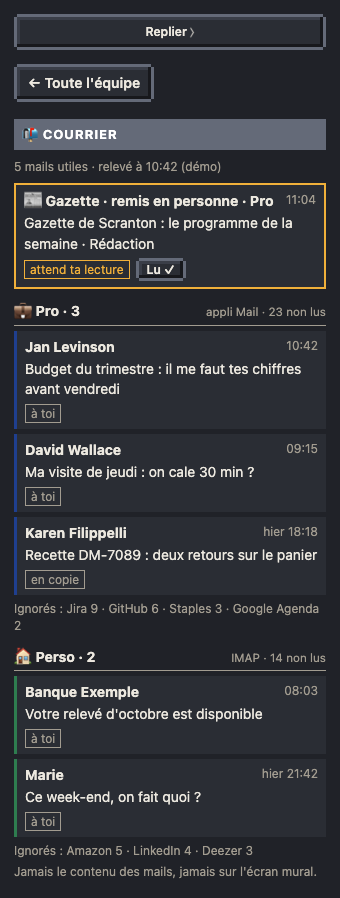
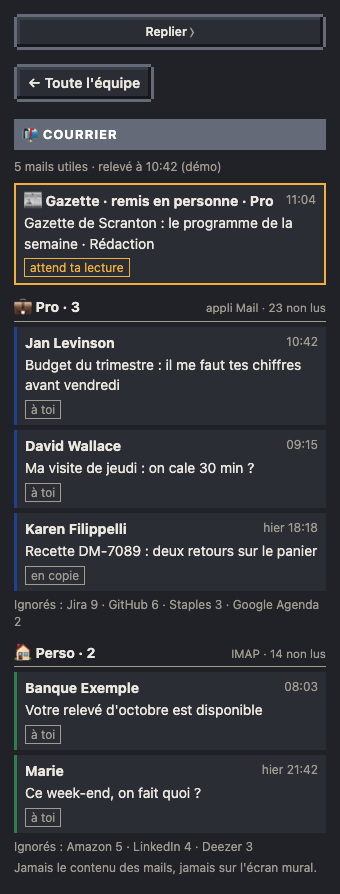
refactor(courrier): plus de « Lu ✓ », le porteur attend la lecture dans la messagerie
Choix après l'essai réel : marquer lu un seul type de mail depuis la
page, et pas les autres, était bizarre. Le porteur vient au bureau du
boss et y reste tant que le mail n'est pas lu dans la messagerie ; il
repart au relevé suivant (10 min au plus). Retirés : le bouton, le
workflow « Le Bureau · lu » (actions.mail_read), le bloc
bureau-mailread, le mode read de mail_snapshot.py et read_rows. La
carte « remis en personne » reste (fiche Courrier, porteur, boss),
avec « Ouvrir ↗ ». 15 workflows (7 crons, 8 manuels), 13 blocs. #30

diff --git a/page/src/48-mail.js b/page/src/48-mail.js
@@ -91,7 +91,7 @@ function postmanState(c,t){
 // ---------- porteurs (mail.messengers) : un invité remet en personne les mails d'une règle, jusqu'à leur lecture ----------
 // Le cron sort ces mails du tri (carried, hors du compteur). L'invité de la règle (carrier = sa clé) vient devant le bureau
 // du boss à leur arrivée (ou au créneau de la règle : {received: 'fri', deliver: 'mon 09:00'}) et y reste tant qu'ils
-// ne sont pas lus (ils disparaissent du dataset au relevé suivant, ou tout de suite avec « Lu ✓ »).
+// ne sont pas lus dans la messagerie (ils disparaissent du dataset au relevé suivant, et l'invité repart).
 const WD=['Sun','Mon','Tue','Wed','Thu','Fri','Sat'];
 function carryStart(m){
   const t=ms(m.at); if(!t)return 0;
@@ -125,12 +125,11 @@ function mailRow(m,a){
 }
 // mails remis en personne (avec leur compte) déjà arrivés à t, d'un porteur (clé) ou de tous
 function carriedMails(t,carrier){return mailAccounts().filter(a=>a.ok).flatMap(a=>(a.carried||[]).map(m=>({...m,acc:a}))).filter(m=>(!carrier||m.carrier===carrier)&&carryStart(m)<=t);}
-// carte d'un mail remis en personne, avec « Lu ✓ » (workflow « lu ») : fiche Courrier, fiche du porteur et fiche du boss
+// carte d'un mail remis en personne : fiche Courrier, fiche du porteur et fiche du boss ; il se lit dans la messagerie (« Ouvrir ↗ »)
 function handHtml(m){
   const href=safeMailUrl(m.open);
   return `<div class="ml-hand" style="--c:${esc(m.acc.color||'var(--accent)')}"><div class="ml-top"><b>${esc(m.bubble)} · remis en personne · ${esc(m.acc.label)}</b><span class="ml-t">${esc(mailWhen(m.at))}</span></div>`+
-    `<div class="ml-s">${esc(m.subject||'(sans objet)')}${m.name?' · '+esc(m.name):''}</div><div class="ml-tags" data-kronn-action-slot-host><span class="ml-tag ml-wait">attend ta lecture</span>`+
-    (ACTIONS.mail_read?`<button class="ml-read" data-kronn-action="bureau-mailread" data-kronn-bindings='${esc(JSON.stringify({id:m.acc.id+'|'+m.id}))}'>Lu ✓</button>`:'')+
+    `<div class="ml-s">${esc(m.subject||'(sans objet)')}${m.name?' · '+esc(m.name):''}</div><div class="ml-tags"><span class="ml-tag ml-wait">attend ta lecture</span>`+
     (href?`<a class="ml-open" href="${esc(href)}" target="_blank" rel="noopener">Ouvrir ↗</a>`:'')+`</div></div>`;
 }
 function handCards(side,list){
@@ -146,7 +145,7 @@ function renderMail(side,first){
   if(!acc.length){box.innerHTML='<p class="sub">Pas de compte : le courrier se branche à l\'installation.</p>';side.appendChild(box);return;}
   const n=acc.reduce((s,a)=>s+(a.ok?a.useful_n||0:0),0);
   let html=`<p class="sub">${MAILS.sorted?plural(n,'mail utile','mails utiles'):'Pas encore trié : le facteur viendra proposer tes règles'} · relevé à ${hm(ms(MAILS.generated_at))}${MAILS.demo?' (démo)':''}</p>`;
-  html+=carriedMails(Infinity).map(handHtml).join(''); // remis en personne : en tête, avec « Lu ✓ »
+  html+=carriedMails(Infinity).map(handHtml).join(''); // remis en personne : en tête
   for(const a of acc){
     html+=`<section class="ml-acc" style="--c:${esc(a.color||'var(--accent)')}"><div class="ml-head"><b>${MAIL_ICON[a.provider]||'📬'} ${esc(a.label)}${a.ok?' · '+(MAILS.sorted?a.useful_n:'?'):''}</b>`+
       `<small>${a.provider==='imap'?'IMAP':'appli Mail'} · ${a.unread||0} non lus</small></div>`;

diff --git a/tests/mail.test.js b/tests/mail.test.js
@@ -133,24 +133,19 @@ test('porteur : reçu le vendredi, remis le lundi au créneau de la règle', () 
   assert.equal(J(`new Date(carryStart(MAILS.accounts[0].carried[0])).toISOString()`), '2026-10-05T07:00:00.000Z');
 });
 
-test('fiche : la carte « Remis en personne » en tête, avec « Lu ✓ » lié au mail', () => {
-  run(`ACTIONS.mail_read = true; MAILS = {generated_at: '${at('11:00')}', sorted: true, accounts: [{id: 'pro', label: 'Pro', ok: true, unread: 1, useful_n: 0, useful: [], ignored: [], carried: [${JSON.stringify(carried('11:05'))}]}]};`);
+test('fiche : la carte « Remis en personne » en tête, à lire dans la messagerie (pas de bouton pour la marquer lue)', () => {
+  run(`MAILS = {generated_at: '${at('11:00')}', sorted: true, accounts: [{id: 'pro', label: 'Pro', ok: true, unread: 1, useful_n: 0, useful: [], ignored: [], carried: [${JSON.stringify(carried('11:05'))}]}]};`);
   const h = fiche('pro');
   assert.match(h, /📰 Gazette · remis en personne · Pro/);
-  assert.match(h, /data-kronn-action="bureau-mailread"/);
-  assert.match(h, /&quot;id&quot;:&quot;pro\|y1&quot;/);
-  run(`ACTIONS.mail_read = false;`);
+  assert.match(h, /attend ta lecture/);
+  assert.doesNotMatch(h, /data-kronn-action/);
 });
 
-test('porteur : ses mails, avec « Lu ✓ », dans sa fiche et dans celle du boss (qui les compte en validations)', () => {
-  run(`ACTIONS.mail_read = true; MAILS = {generated_at: '${at('11:00')}', sorted: true, accounts: [{id: 'pro', label: 'Pro', ok: true, unread: 1, useful_n: 0, useful: [], ignored: [], carried: [${JSON.stringify(carried('11:05'))}]}]};
+test('porteur : ses mails dans sa fiche et dans celle du boss (qui les compte en validations)', () => {
+  run(`MAILS = {generated_at: '${at('11:00')}', sorted: true, accounts: [{id: 'pro', label: 'Pro', ok: true, unread: 1, useful_n: 0, useful: [], ignored: [], carried: [${JSON.stringify(carried('11:05'))}]}]};
     T = Date.parse('${at('11:10')}'); for (const c of chars) c._st = stateAt(c, T);`);
   const draw = k => run(`(() => { const s = {kids: [], appendChild(x) { this.kids.push(x); }, querySelector() { return null; }, querySelectorAll() { return []; }};
     sel = '${k}'; drawSide(s); return s.kids.map(k => k.innerHTML || '').join('\\n'); })()`);
-  for (const k of ['g_david', run('chars.find(c => c.boss).key')]) {
-    const h = draw(k);
-    assert.match(h, /📰 Gazette · remis en personne · Pro/, k);
-    assert.match(h, /data-kronn-action="bureau-mailread"/, k);
-  }
-  run(`ACTIONS.mail_read = false; sel = null;`);
+  for (const k of ['g_david', run('chars.find(c => c.boss).key')]) assert.match(draw(k), /📰 Gazette · remis en personne · Pro/, k);
+  run(`sel = null;`);
 });

diff --git a/page/src/50-panel.js b/page/src/50-panel.js
@@ -205,7 +205,7 @@ function drawSide(side){
   if(c.boss){const p=document.createElement('p');p.style.color='var(--muted)';const gates=chars.filter(x=>x._st&&x._st.st==='gate'), lone=loneGates();
     const qs=QUESTIONS.filter(q=>(ms(q.since)||0)<=T);
     if(!gates.length&&!lone.length&&!qs.length){p.textContent="Personne n'attend ta validation. Le bureau tourne tout seul.";side.appendChild(p);}
-    for(const x of gates){const r=x._st&&x._st.run;if(r)gateCard(side,r,x.name);else handCards(side,carriedFor(x,T));} // porteurs : leurs mails, avec « Lu ✓ » (48-mail.js)
+    for(const x of gates){const r=x._st&&x._st.run;if(r)gateCard(side,r,x.name);else handCards(side,carriedFor(x,T));} // porteurs : les mails qu'ils remettent (48-mail.js)
     for(const g of lone)gateCard(side,{run:g.run,wf_name:g.wf_name,_s:ms(g.since)},null); // workflows sans personnage (« Le Bureau · plan »)
     for(const q of qs)questionCard(side,q,askerOf(q)); // questions des discussions (visiteurs, canard, « interroger »)
     const imp=chars.filter(x=>x.visitor&&x.disc&&x.disc.imp>0);
@@ -221,7 +221,7 @@ function drawSide(side){
       }
       box.appendChild(ul);}}
   if(st.st==='gate'&&st.run)gateCard(side,st.run,null);
-  else if(st.st==='gate'&&c.guest)handCards(side,carriedFor(c,T)); // porteur : les mails qu'il remet, avec « Lu ✓ »
+  else if(st.st==='gate'&&c.guest)handCards(side,carriedFor(c,T)); // porteur : les mails qu'il remet
   if(c.visitor&&c.disc)for(const q of discQuestions(c.disc.id,T))questionCard(side,q,null);
   musicCard(side,c);
   passionCards(side,c); // 38-passions.js : Smash, dramas, GitFut

diff --git a/page/office_template.html b/page/office_template.html
@@ -102,7 +102,6 @@
 <script type="application/kronn-action" data-action-id="bureau-estimate">{"kind":"workflow","target_id":"__ESTIMATE_WF__","values":[{"name":"jira_ticket_key","provenance":"dynamic_binding","source_ref":"<page.dataset.actions.tickets.find(key).key>"},{"name":"story_points","provenance":"user_input"},{"name":"raison","provenance":"user_input"}]}</script>
 <script type="application/kronn-action" data-action-id="bureau-duck">{"kind":"workflow","target_id":"__DUCK_WF__","values":[{"name":"project_id","provenance":"dynamic_binding","source_ref":"<page.dataset.gates.projects.find(id).id>"},{"name":"title","provenance":"user_input"},{"name":"topic","provenance":"user_input"}]}</script>
 <script type="application/kronn-action" data-action-id="bureau-mailrules">{"kind":"workflow","target_id":"__MAILRULES_WF__","values":[]}</script>
-<script type="application/kronn-action" data-action-id="bureau-mailread">{"kind":"workflow","target_id":"__MAILREAD_WF__","values":[{"name":"mail_ref","provenance":"dynamic_binding","source_ref":"<page.dataset.mails.read_rows.find(id).id>"}]}</script>
 <script type="application/kronn-action" data-action-id="bureau-avatar">{"kind":"workflow","target_id":"__AVATAR_WF__","values":[{"name":"avatar_code","provenance":"user_input"}]}</script>
 
 <script>

diff --git a/tests/boot.test.js b/tests/boot.test.js
@@ -25,10 +25,10 @@ test('les données Kronn (window.KronnPageData) remplacent la démo', () => {
   assert.equal(run('LIVE_DATA'), true);
 });
 
-test('squelette : 14 blocs kronn-action et les marqueurs CSS / JS', () => {
+test('squelette : 13 blocs kronn-action et les marqueurs CSS / JS', () => {
   const html = fs.readFileSync(path.join(__dirname, '..', 'page', 'office_template.html'), 'utf8');
   const ids = [...html.matchAll(/<script type="application\/kronn-action" data-action-id="([^"]+)">/g)].map(m => m[1]);
-  assert.deepEqual(ids, ['bureau-ask', 'bureau-relaunch', 'bureau-gate', 'bureau-answer', 'bureau-impl', 'bureau-mep', 'bureau-review', 'bureau-fix', 'bureau-comment', 'bureau-estimate', 'bureau-duck', 'bureau-mailrules', 'bureau-mailread', 'bureau-avatar']);
+  assert.deepEqual(ids, ['bureau-ask', 'bureau-relaunch', 'bureau-gate', 'bureau-answer', 'bureau-impl', 'bureau-mep', 'bureau-review', 'bureau-fix', 'bureau-comment', 'bureau-estimate', 'bureau-duck', 'bureau-mailrules', 'bureau-avatar']);
   assert.equal(html.split('/*__STYLES__*/\n').length, 2);
   assert.equal(html.split('/*__SCRIPTS__*/\n').length, 2);
 });

diff --git a/page/src/styles.css b/page/src/styles.css
@@ -344,7 +344,7 @@ button.wc.on{background:color-mix(in srgb,var(--accent) 14%,var(--panel));color:
 .ml-s{margin:2px 0 4px;overflow-wrap:anywhere}
 .ml-tags{display:flex;gap:6px;align-items:center;font-size:12px}.ml-tag{padding:0 5px;border:1px solid var(--muted);color:var(--muted)}
 .ml-open{margin-left:auto}
-.ml-hand{background:var(--chip);padding:6px 8px;margin:8px 0 12px;border:2px solid var(--warn)}.ml-wait{border-color:var(--warn)!important;color:var(--warn)!important}.ml-read{font:inherit;padding:0 8px;cursor:pointer}.ml-ign,.ml-hid{color:var(--muted);font-size:12px;margin:4px 0}.ml-err{color:var(--err);font-size:12px;margin:4px 0}
+.ml-hand{background:var(--chip);padding:6px 8px;margin:8px 0 12px;border:2px solid var(--warn)}.ml-wait{border-color:var(--warn)!important;color:var(--warn)!important}.ml-ign,.ml-hid{color:var(--muted);font-size:12px;margin:4px 0}.ml-err{color:var(--err);font-size:12px;margin:4px 0}
 .calbox h3{font-size:12px;text-transform:uppercase;letter-spacing:.06em;color:var(--muted);margin:14px 0 6px}
 .calbox .sub{font-size:12px;color:var(--muted);margin:4px 0}
 .calbox .calk{color:var(--ok)}

diff --git a/workflows/mail_snapshot.py b/workflows/mail_snapshot.py
@@ -334,62 +334,6 @@ def merge():
     print(dumps({"updated_at": datetime.now(TZ).isoformat(), "keep": list(keep.values()), "ignore": list(ignore.values()), "by": "facteur"}))
 
 
-READ_SCRIPT = r'''
-on run argv
-  tell application "Mail"
-    set ib to missing value
-    repeat with m in mailboxes of inbox
-      if (name of account of m) is (item 1 of argv) then set ib to m
-    end repeat
-    set n to count of messages of ib
-    if n > ((item 3 of argv) as integer) then set n to (item 3 of argv) as integer
-    set lId to message id of messages 1 thru n of ib
-    repeat with i from 1 to n
-      if (item i of lId) is (item 2 of argv) then
-        set read status of message i of ib to true
-        return "ok"
-      end if
-    end repeat
-  end tell
-  return "absent"
-end run
-'''
-
-
-def mark_read():
-    """Bouton « Lu ✓ » (workflow « Le Bureau · lu ») : argv = id du compte, Message-ID ; marque le mail lu (appli Mail ou
-    IMAP), puis relance le cron courrier pour que la page le voie tout de suite."""
-    acc_id, _, mid = sys.argv[2].partition("|")  # « compte|Message-ID » (ligne read_rows du dataset)
-    mid = mid.strip("<>")
-    acc = next(({"provider": "mac-mail", **a} for a in MAIL.get("accounts") or [] if a.get("id") == acc_id), None)
-    if not acc:
-        raise SystemExit("compte inconnu : " + acc_id)
-    if acc["provider"] == "mac-mail":
-        r = subprocess.run(["osascript", "-", acc.get("account") or "", mid, str(SCAN)], input=READ_SCRIPT, capture_output=True, text=True, timeout=110)
-        done = r.returncode == 0 and r.stdout.strip() == "ok"
-    else:
-        port = int(acc.get("port") or (993 if acc.get("ssl", True) else 143))
-        c = imaplib.IMAP4_SSL(acc["host"], port, timeout=60) if acc.get("ssl", True) else imaplib.IMAP4(acc["host"], port, timeout=60)
-        c.login(acc["user"], secret(acc.get("secret"), acc["user"]))
-        c.select("INBOX")
-        typ, data = c.uid("SEARCH", "HEADER", "Message-ID", "<" + mid + ">")
-        uids = (data[0] or b"").split() if typ == "OK" else []
-        for uid in uids:
-            c.uid("STORE", uid, "+FLAGS", "(\\Seen)")
-        c.logout()
-        done = bool(uids)
-    wf = (CFG.get("workflows") or {}).get("courrier")
-    if done and wf:
-        try:
-            urllib.request.urlopen(urllib.request.Request((CFG.get("kronn") or {}).get("api", "") + "/mcp/workflow-trigger", method="POST",
-                                   headers={"content-type": "application/json"}, data=json.dumps({"workflow_id": wf}).encode()), timeout=30).read()
-        except Exception as e:
-            print("courrier : relevé non relancé (" + str(e)[:120] + ")", file=sys.stderr)
-    print(dumps({"read": done, "account": acc_id, "id": mid}))
-    if not done:
-        raise SystemExit("mail introuvable (déjà lu, ou plus dans les " + str(SCAN) + " derniers)")
-
-
 def main():
     keep, ignore = rules("keep"), rules("ignore")
     out = {"generated_at": datetime.now(TZ).isoformat(), "sorted": bool(keep or ignore), "accounts": []}
@@ -407,10 +351,8 @@ def main():
             print("courrier : " + acc["id"] + " : " + str(e), file=sys.stderr)
             out["accounts"].append({**base, "ok": False, "error": str(e)[:200], "unread": 0, "useful_n": 0, "useful": [], "carried": [], "ignored": [],
                                     "ignored_n": 0, "unknown": 0})
-    # lignes du bouton « Lu ✓ » de la page (action bureau-mailread) : un mail remis en personne = « compte|Message-ID »
-    out["read_rows"] = [{"id": a["id"] + "|" + m["id"]} for a in out["accounts"] for m in a.get("carried") or [] if m.get("id")]
     print(dumps(out))
     ask_rules(out)
 
 
-{"senders": senders, "merge": merge, "read": mark_read}.get(sys.argv[1] if len(sys.argv) > 1 else "", main)()
+{"senders": senders, "merge": merge}.get(sys.argv[1] if len(sys.argv) > 1 else "", main)()

diff --git a/tests/test_mail.py b/tests/test_mail.py
@@ -32,7 +32,6 @@ class FakeImap(socketserver.StreamRequestHandler):
     """Juste ce que lit imaplib : accueil, CAPABILITY, LOGIN, SELECT (lecture seule), UID SEARCH, UID FETCH, LOGOUT."""
     MAILS = {}  # uid -> (en-têtes bruts, drapeaux)
     SEEN = []  # commandes reçues
-    STORED = []  # uid marqués lus (UID STORE +FLAGS \Seen)
 
     def send(self, s):
         self.wfile.write(s.encode() if isinstance(s, str) else s)
@@ -61,9 +60,6 @@ class FakeImap(socketserver.StreamRequestHandler):
                 hdr, flags = FakeImap.MAILS[uid]
                 body = hdr.encode()
                 self.send(f"* 1 FETCH (UID {uid} FLAGS ({flags}) BODY[HEADER.FIELDS (FROM)] {{{len(body)}}}\r\n".encode() + body + b")\r\n" + (tag + " OK done\r\n").encode())
-            elif c == "UID" and arg.upper().startswith("STORE"):
-                FakeImap.STORED.append(arg.split(" ")[1])
-                self.send(tag + " OK done\r\n")
             elif c == "LOGOUT":
                 self.send("* BYE\r\n" + tag + " OK done\r\n")
                 return
@@ -258,25 +254,13 @@ class MailSnapshotTest(unittest.TestCase):
 
     def test_messenger_rule_takes_the_mail_out_of_the_box(self):
         """Porteur (mail.messengers) : le mail qui correspond (objet) passe avant le tri et les règles, hors du compteur, avec
-        son porteur et sa bulle ; une ligne read_rows pour le bouton « Lu ✓ »."""
+        son porteur et sa bulle. Il repart quand le mail est lu dans la messagerie : la page n'a rien pour le marquer lu."""
         out, _ = self.run_mail({"accounts": [{"id": "pro", "provider": "mac-mail", "account": "Dunder"}], "ignore": ["staples.example"],
                                 "messengers": [{"id": "promo", "match": {"subject_contains": ["promo"]}, "carrier": "g_porteur", "bubble": "📰 Promo"}]})
         a = out["accounts"][0]
         self.assertEqual([(m["subject"], m["carrier"], m["bubble"]) for m in a["carried"]], [("Promo ramettes", "g_porteur", "📰 Promo")])
         self.assertNotIn("Staples", dict(a["ignored"]))  # pris par le porteur avant la règle ignore
-        self.assertEqual(out["read_rows"], [{"id": "pro|a4@x"}])
-
-    def test_read_marks_the_mail_read_in_mail_or_imap(self):
-        self.tool("osascript", f"import sys\nsys.stdin.read()\nopen({os.path.join(self.tmp, 'argv.txt')!r}, 'w').write(' '.join(sys.argv[1:]))\nprint('ok')")
-        out, _ = self.run_mail({"accounts": [{"id": "pro", "provider": "mac-mail", "account": "Dunder"}]}, args=("read", "pro|<a4@x>"))
-        self.assertEqual(out, {"read": True, "account": "pro", "id": "a4@x"})
-        self.assertEqual(open(os.path.join(self.tmp, "argv.txt")).read(), "- Dunder a4@x 150")
-        port = self.imap_server({"11": (raw("Marie <marie@exemple.example>", "Ce week-end ?", 2), "")})
-        out, _ = self.run_mail({"accounts": [{"id": "perso", "provider": "imap", "host": "127.0.0.1", "port": port, "ssl": False,
-                                              "user": "pam.perso@gmail.example", "secret": "keychain:pixel-bureau-perso"}]}, args=("read", "perso|m1@x"))
-        self.assertTrue(out["read"])
-        self.assertEqual(FakeImap.STORED, ["11"])
-        self.assertTrue(any(s.startswith("UID SEARCH HEADER Message-ID") for s in FakeImap.SEEN))
+        self.assertNotIn("read_rows", out)
 
     def test_no_accounts_empty(self):
         out, _ = self.run_mail({})

diff --git a/tools/shots.py b/tools/shots.py
@@ -212,11 +212,11 @@ SHOTS = {
                        "k=r.width/c.width,d=document.createElement('div');d.id='shotclip';Object.assign(d.style,{position:'absolute',left:(r.left+scrollX+(mx-12)*TS*k)+'px',"
                        "top:(r.top+scrollY+(my-5)*TS*k)+'px',width:16*TS*k+'px',height:7*TS*k+'px',pointerEvents:'none'});document.body.appendChild(d);},2000);", "#shotclip", 2),
     # porteur (mail.messengers, démo : la gazette, portée par David) : il attend devant le bureau du boss que le mail soit lu
-    "porteur": (1400, 1000, AT(11 + 12 / 60) + "MAILS.accounts[0].carried=[{id:'y1',name:'Rédaction',addr:'gazette@dundermifflin.example',subject:'Gazette de Scranton : le programme de la semaine',at:new Date(DAY0+11.08*36e5).toISOString(),direct:true,rule:'gazette',carrier:'g_david',bubble:'📰 Gazette',when:'arrival',open:null}];ACTIONS.mail_read=true;refreshAll();needTeleport=true;"
+    "porteur": (1400, 1000, AT(11 + 12 / 60) + "MAILS.accounts[0].carried=[{id:'y1',name:'Rédaction',addr:'gazette@dundermifflin.example',subject:'Gazette de Scranton : le programme de la semaine',at:new Date(DAY0+11.08*36e5).toISOString(),direct:true,rule:'gazette',carrier:'g_david',bubble:'📰 Gazette',when:'arrival',open:null}];refreshAll();needTeleport=true;"
                 "setTimeout(()=>{const [mx,my]=mailboxTile(),c=document.querySelector('#cv'),r=c.getBoundingClientRect(),"
                 "k=r.width/c.width,d=document.createElement('div');d.id='shotclip';Object.assign(d.style,{position:'absolute',left:(r.left+scrollX+(mx-12)*TS*k)+'px',"
                 "top:(r.top+scrollY+(my-5)*TS*k)+'px',width:16*TS*k+'px',height:7*TS*k+'px',pointerEvents:'none'});document.body.appendChild(d);},2000);", "#shotclip", 2),
-    "fiche-porteur": (1400, 1400, AT(11 + 12 / 60) + "MAILS.accounts[0].carried=[{id:'y1',name:'Rédaction',addr:'gazette@dundermifflin.example',subject:'Gazette de Scranton : le programme de la semaine',at:new Date(DAY0+11.08*36e5).toISOString(),direct:true,rule:'gazette',carrier:'g_david',bubble:'📰 Gazette',when:'arrival',open:null}];ACTIONS.mail_read=true;select('mail:pro');", "#side"),
+    "fiche-porteur": (1400, 1400, AT(11 + 12 / 60) + "MAILS.accounts[0].carried=[{id:'y1',name:'Rédaction',addr:'gazette@dundermifflin.example',subject:'Gazette de Scranton : le programme de la semaine',at:new Date(DAY0+11.08*36e5).toISOString(),direct:true,rule:'gazette',carrier:'g_david',bubble:'📰 Gazette',when:'arrival',open:null}];select('mail:pro');", "#side"),
     # le facteur dépose le courrier arrivé à 10h42 (démo), à côté des boîtes, puis repart
     "facteur": (1400, 1000, AT(10 + 43 / 60) + "setTimeout(()=>{const [mx,my]=mailboxTile(),c=document.querySelector('#cv'),r=c.getBoundingClientRect(),"
                 "k=r.width/c.width,d=document.createElement('div');d.id='shotclip';Object.assign(d.style,{position:'absolute',left:(r.left+scrollX+(mx-9)*TS*k)+'px',"

diff --git a/tools/smoke.py b/tools/smoke.py
@@ -7,7 +7,7 @@
     python3 tools/smoke.py --team ~/Sites/bureau-monequipe --chrome   # la démo avec un autre pack d'équipe (sa CI)
 
 Contrôles : taille < 1 000 000 octets, chaque <script> (hors kronn-action) se parse (node, new Function),
-les 14 blocs kronn-action du squelette sont présents à l'identique (ids de workflows remplacés), leur JSON est valide,
+les 13 blocs kronn-action du squelette sont présents à l'identique (ids de workflows remplacés), leur JSON est valide,
 plus aucun marqueur __X__ ni /*__STYLES__*/ /*__SCRIPTS__*/ ne traîne.
 --chrome demande websocket-client (`.venv/bin/pip install websocket-client`) ; Chrome est lancé muet
 (--mute-audio), sur un profil jetable, puis arrêté.
@@ -58,7 +58,7 @@ def static_checks(html, cfg=None):
         if acts.get(key):  # bouton sans workflow configuré : bloc retiré à l'assemblage
             expected.append(assemble.action_block(b, c))
     found = ACTION_RE.findall(html)
-    check(total == 14, f"{total} blocs kronn-action dans le squelette (attendu 14)")
+    check(total == 13, f"{total} blocs kronn-action dans le squelette (attendu 13)")
     check(found == expected, f"blocs kronn-action attendus présents à l'identique ({len(expected)}/12 configurés)")
     for b in found:
         body = b.split(">", 1)[1].rsplit("</script>", 1)[0]

diff --git a/tools/templates.py b/tools/templates.py
@@ -35,8 +35,6 @@ TEMPLATES = {
     "courrier": ("workflow", ("workflows", "courrier"), {"mails": "workflows/mail_snapshot.py"}),
     # règles du courrier (#30) : le facteur les propose (agent), le boss les valide (gate) ; lancé par le cron courrier
     "regles": ("workflow", ("actions", "mail_rules"), {"senders": "workflows/mail_snapshot.py", "merge": "workflows/mail_snapshot.py"}),
-    # bouton « Lu ✓ » d'un mail remis en personne (#30) : le marque lu dans sa messagerie
-    "lu": ("workflow", ("actions", "mail_read"), {"read": "workflows/mail_snapshot.py"}),
     "avatar": ("workflow", ("actions", "avatar"), {"save": "workflows/avatar_save.py"}),
     "gate": ("workflow", ("actions", "gate"), {"decide": "workflows/gate_decide.py"}),
     "answer": ("workflow", ("actions", "answer"), {"answer": "workflows/question_answer.py"}),  # question de discussion (KT-27)
@@ -138,7 +136,7 @@ def skipped(key, cfg):
     if key == "absences":
         m = cfg.get("microsoft") or {}
         return not (m.get("config_id") and (m.get("planning") or {}).get("site") and (m.get("planning") or {}).get("item"))
-    if key in ("courrier", "regles", "lu"):
+    if key in ("courrier", "regles"):
         return not (cfg.get("mail") or {}).get("accounts")
     return False
 

diff --git a/tools/assemble.py b/tools/assemble.py
@@ -23,8 +23,7 @@ ACTIONS = {"bureau-avatar": ("avatar", "__AVATAR_WF__"), "bureau-gate": ("gate",
            "bureau-impl": ("impl", "__IMPL_WF__"), "bureau-mep": ("mep", "__MEP_WF__"),
            "bureau-review": ("review", "__REVIEW_WF__"), "bureau-fix": ("fix", "__FIX_WF__"),
            "bureau-comment": ("comment", "__COMMENT_WF__"), "bureau-duck": ("duck", "__DUCK_WF__"),
-           "bureau-estimate": ("estimate", "__ESTIMATE_WF__"), "bureau-mailrules": ("mail_rules", "__MAILRULES_WF__"),
-           "bureau-mailread": ("mail_read", "__MAILREAD_WF__")}
+           "bureau-estimate": ("estimate", "__ESTIMATE_WF__"), "bureau-mailrules": ("mail_rules", "__MAILRULES_WF__")}
 # variables des workflows de la clé launch : rôle -> nom par défaut ; launch.<action> = id seul, ou {wf, vars: {rôle: nom
 # chez toi, ou null si ton workflow n'a pas cette variable}}
 LAUNCH_VARS = {"impl": {"ticket": "jira_ticket_key"}, "mep": {"ticket": "jira_ticket_key", "pr": "pr_number"},
